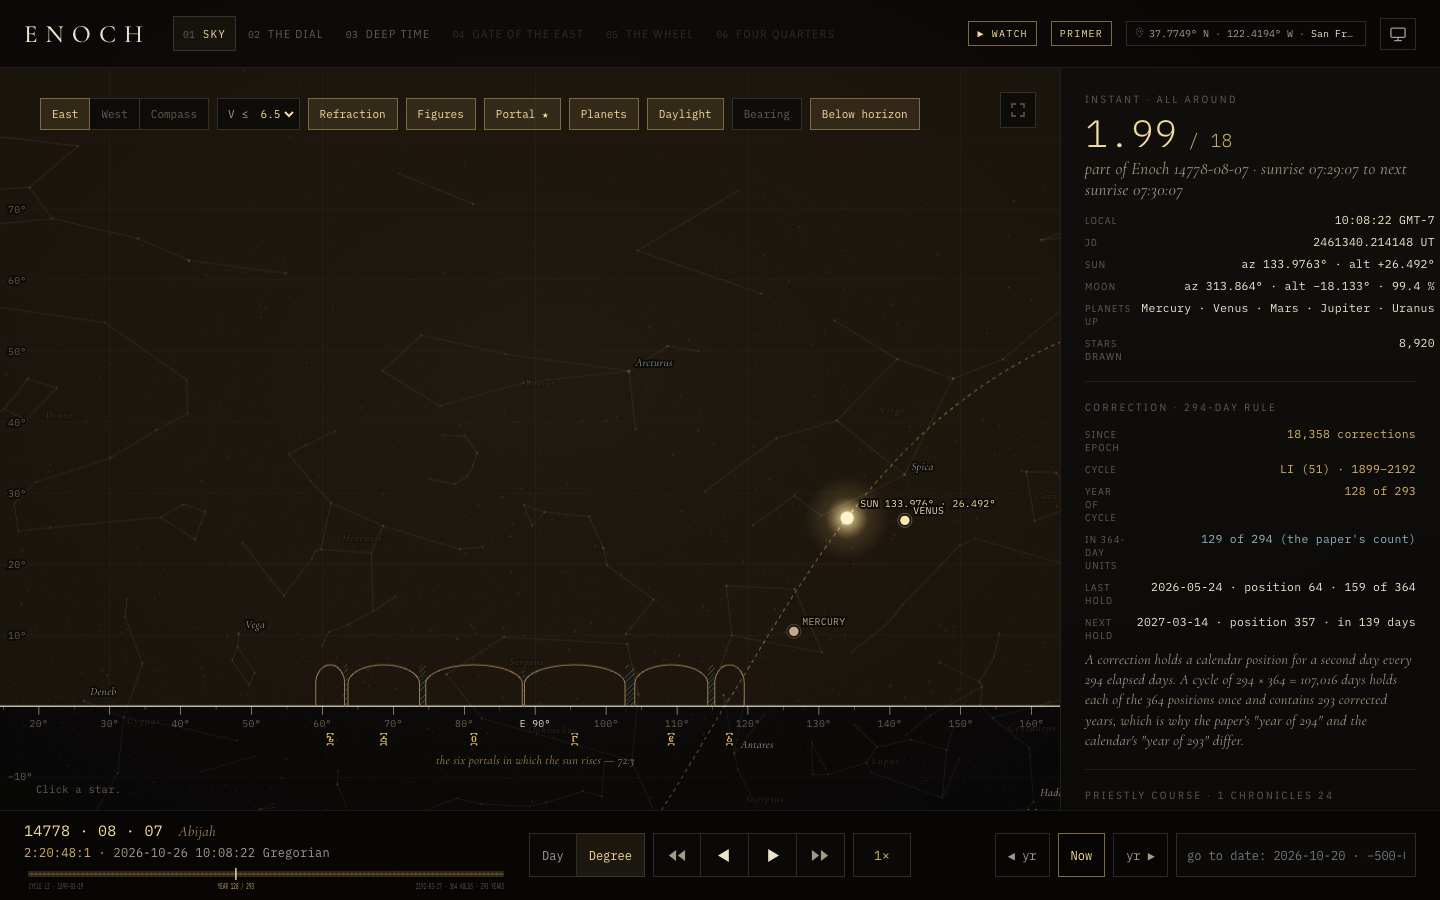
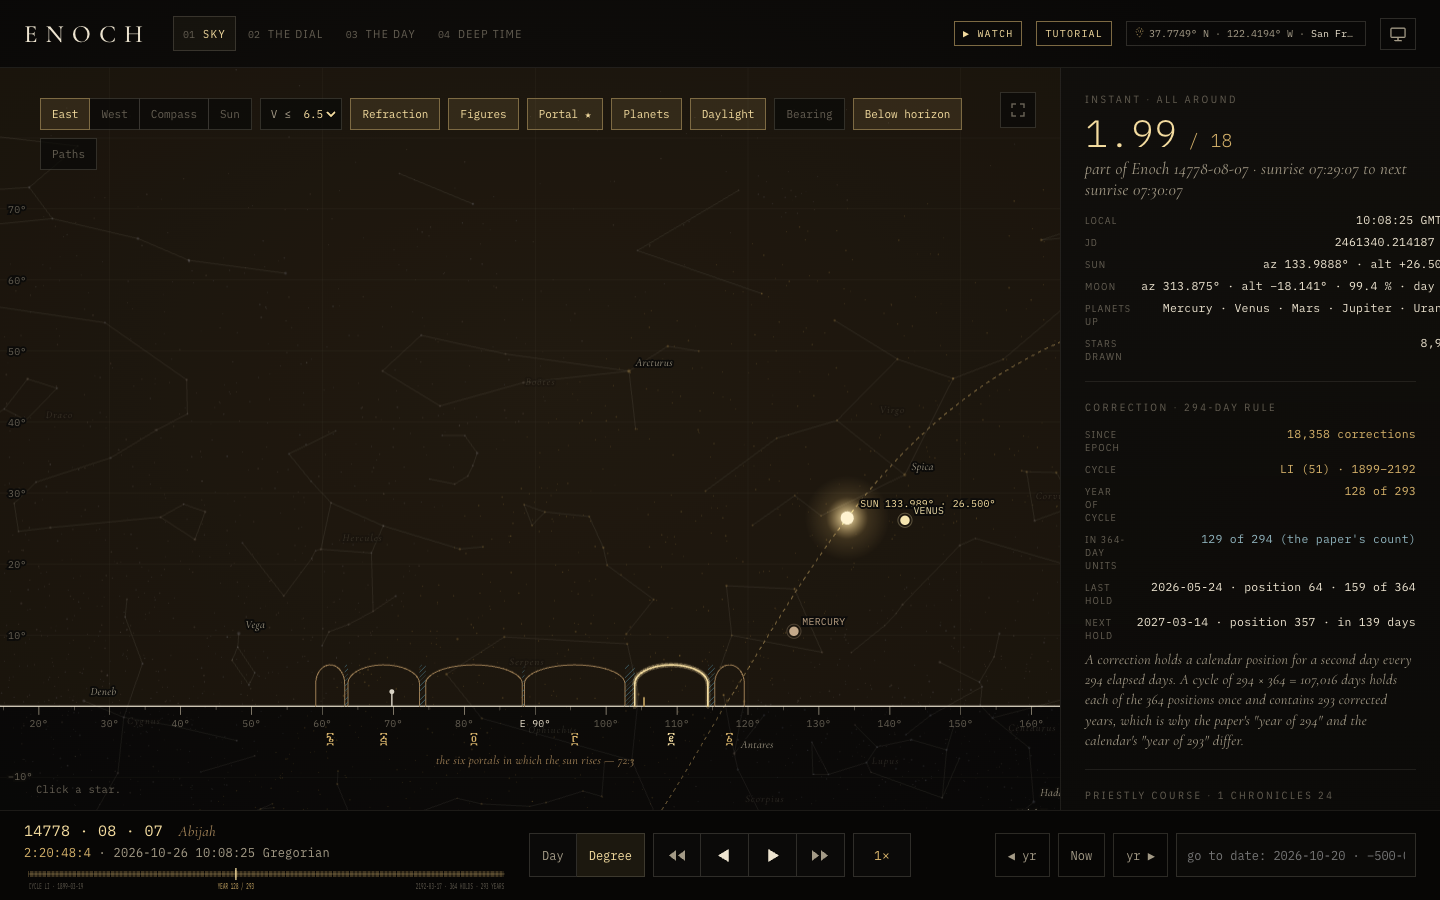
docs: README for following the Moon, planets and stars; screenshots retaken, with The Day and the follow views added
The Sky bullet and the following paragraph now describe tapping a body or star, the reading line and its Follow link,
the Moon's day, light in fourteenths and last-rising portal, and Paths for the Moon and the body followed. The four
screenshots (which showed tabs that no longer exist) are retaken at the same moment; day.png, sky-follow.png and
sky-phone.png are new.

diff --git a/README.md b/README.md
@@ -15,9 +15,12 @@ It is a static site. Every calculation runs in your browser; nothing is sent to 
 Four views share one time cursor:
 
 - **Sky.** The real sky over the six eastern portals (1 Enoch 72) at any of the 18 parts of the selected day: stars,
-  constellation figures, Sun, Moon and planets. Turn to the east or west, follow the device's compass, or follow the Sun.
-  **Paths** draws the day's course of the Sun (solid behind it, dotted ahead) and of each planet. Click a star or planet to
-  see where it rises and sets against the portals.
+  constellation figures, Sun, Moon and planets. Turn to the east or west, or follow the device's compass.
+  Tap the Sun, the Moon, a planet or any star and a line of reading appears under the options (where it is, and which
+  portal it rises in); its **Follow** turns the view with it as the day or the years play. The Moon's reading also gives
+  its day, counted from the conjunction, its light in fourteenths, and the portal it last rose in (a silver tick on the
+  horizon marks where). **Paths** draws the day's course of the Sun, the Moon and each planet (solid behind it, dotted
+  ahead), and of the body you follow.
 - **The Dial.** Every layer of the calendar on one face, each ring turned onto the Sun's line, with the planets, Moon and
   bright stars. Frame it north-up, Sun-up or by compass.
 - **The Day.** The Sky and the Dial together, sunrise to sunrise: the sky turns with the Sun and the Dial is turned to face
@@ -26,9 +29,13 @@ Four views share one time cursor:
 - **Deep Time.** About 30,000 annual Day 1s against the independently solved March equinox, with the 294-year cycle
   boundaries. Click a year to open it.
 
-| Sky | Deep Time | On a phone |
+| Sky | Following the Moon | On a phone |
 |---|---|---|
-| ![Sky: the six eastern portals and the Sun rising](docs/img/sky.png) | ![Deep Time: thirty thousand years of Day 1 against the March equinox](docs/img/deep-time.png) | <img src="docs/img/dial-phone.png" alt="The Dial on a phone" width="200"> |
+| ![Sky: the six eastern portals and the Sun rising](docs/img/sky.png) | ![Sky following the Moon: its reading, its path across the sky and the portal it last rose in](docs/img/sky-follow.png) | <img src="docs/img/sky-phone.png" alt="Sky on a phone, following Neptune" width="200"> |
+
+| The Day | Deep Time | On a phone |
+|---|---|---|
+| ![The Day: the Sky and the Dial joined by a thread through the Sun, with the day's risings and settings](docs/img/day.png) | ![Deep Time: thirty thousand years of Day 1 against the March equinox](docs/img/deep-time.png) | <img src="docs/img/dial-phone.png" alt="The Dial on a phone" width="200"> |
 
 **Playback** is one bar on every view: step or play by the Day or by the Degree (1° is 1/360 of sunrise to sunrise), at
 0.5× to 16×, forwards or in reverse. Playing past the end of an Enoch year carries on into the next one. **Now** follows the
@@ -43,9 +50,11 @@ present.
 | 1 2 3 4 | Sky · The Dial · The Day · Deep Time |
 | + − 0 | zoom Sky, The Day or Deep Time in, out, home |
 
-Following the Sun, the view opens out at midday and midnight so the horizon and the Sun are both in view. Zoom in first
-and it follows that close; a pinch or the wheel zooms while it follows, and a double tap (or 0) brings back the whole view.
-A drag takes the sky back.
+Following a body, the view opens out as it climbs high or sinks deep so the horizon and the body are both in view. Zoom in
+first and it follows that close; a pinch or the wheel zooms while it follows, and a double tap (or 0) brings back the whole
+view. A drag, East, West or Compass takes the sky back. Selecting something else does not stop it: the body followed wears
+a double ring, and with nothing selected the reading shows it, so **Following** is always there to tap. The Sun button
+follows the Sun in one tap.
 
 Each year carries an **Accuracy** section. It stays closed while Day 1 is within 1.5 days of the March equinox and the
 uncertainty in Earth's rotation (ΔT) is under an hour; beyond that it opens and gives the reasons.
@@ -122,7 +131,7 @@ and scrub a day.
 | `src/` | the app (TypeScript, Three.js, Vite) |
 | `src/calculator/` | the browser calculator: a worker that runs the Swiss Ephemeris (WebAssembly) and `engine/`, the calendar, sunrise and cycle arithmetic |
 | `src/dial/`, `src/sky/`, `src/compass/`, `src/pwa/` | the Dial, the sky, the compass and magnetic declination, and offline install |
-| `src/day/`, `src/studio/` | The Day (the Sky and the Dial together, its events and its following of the Sun) and its video frame |
+| `src/day/`, `src/studio/` | The Day (the Sky and the Dial together, its events), the follow that turns the Sky with a body (`follow.ts`), and the video frame |
 | `public/` | fonts, icons, the star catalogue (`sky/`), Deep Time's data (`deep/`) and the Tutorial, Primer (Enoch) and Evidence (Phoenix) pages |
 | `scripts/` | the ephemeris download, the build's staging steps and the day-video recorder |
 | `tests/` | unit tests and their fixtures |
